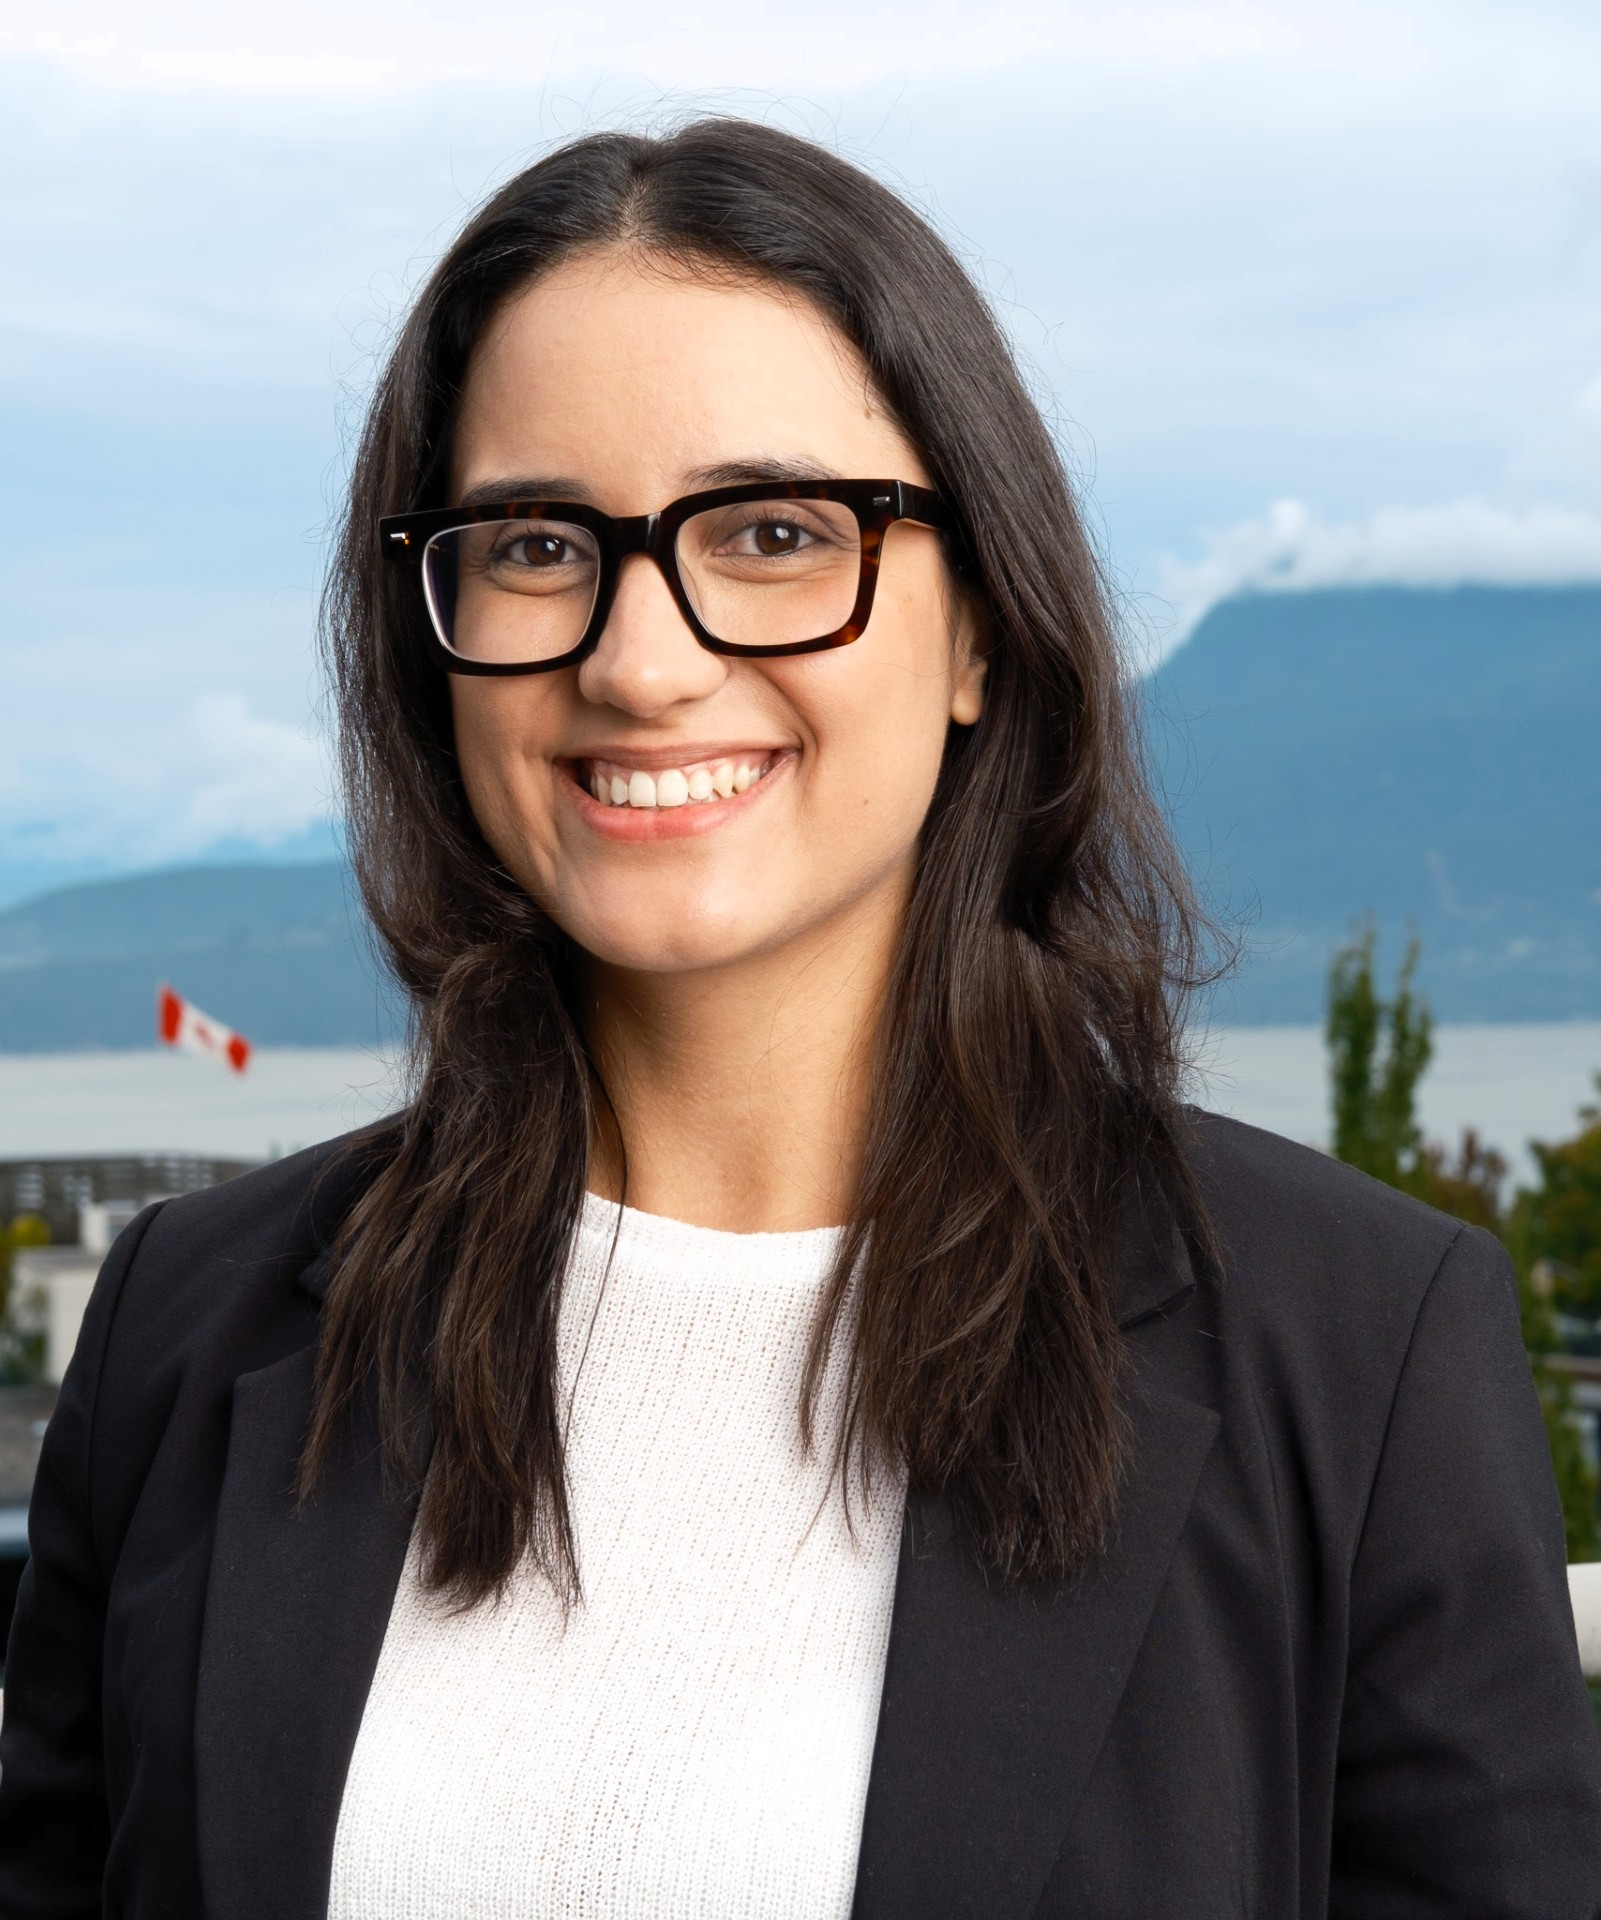
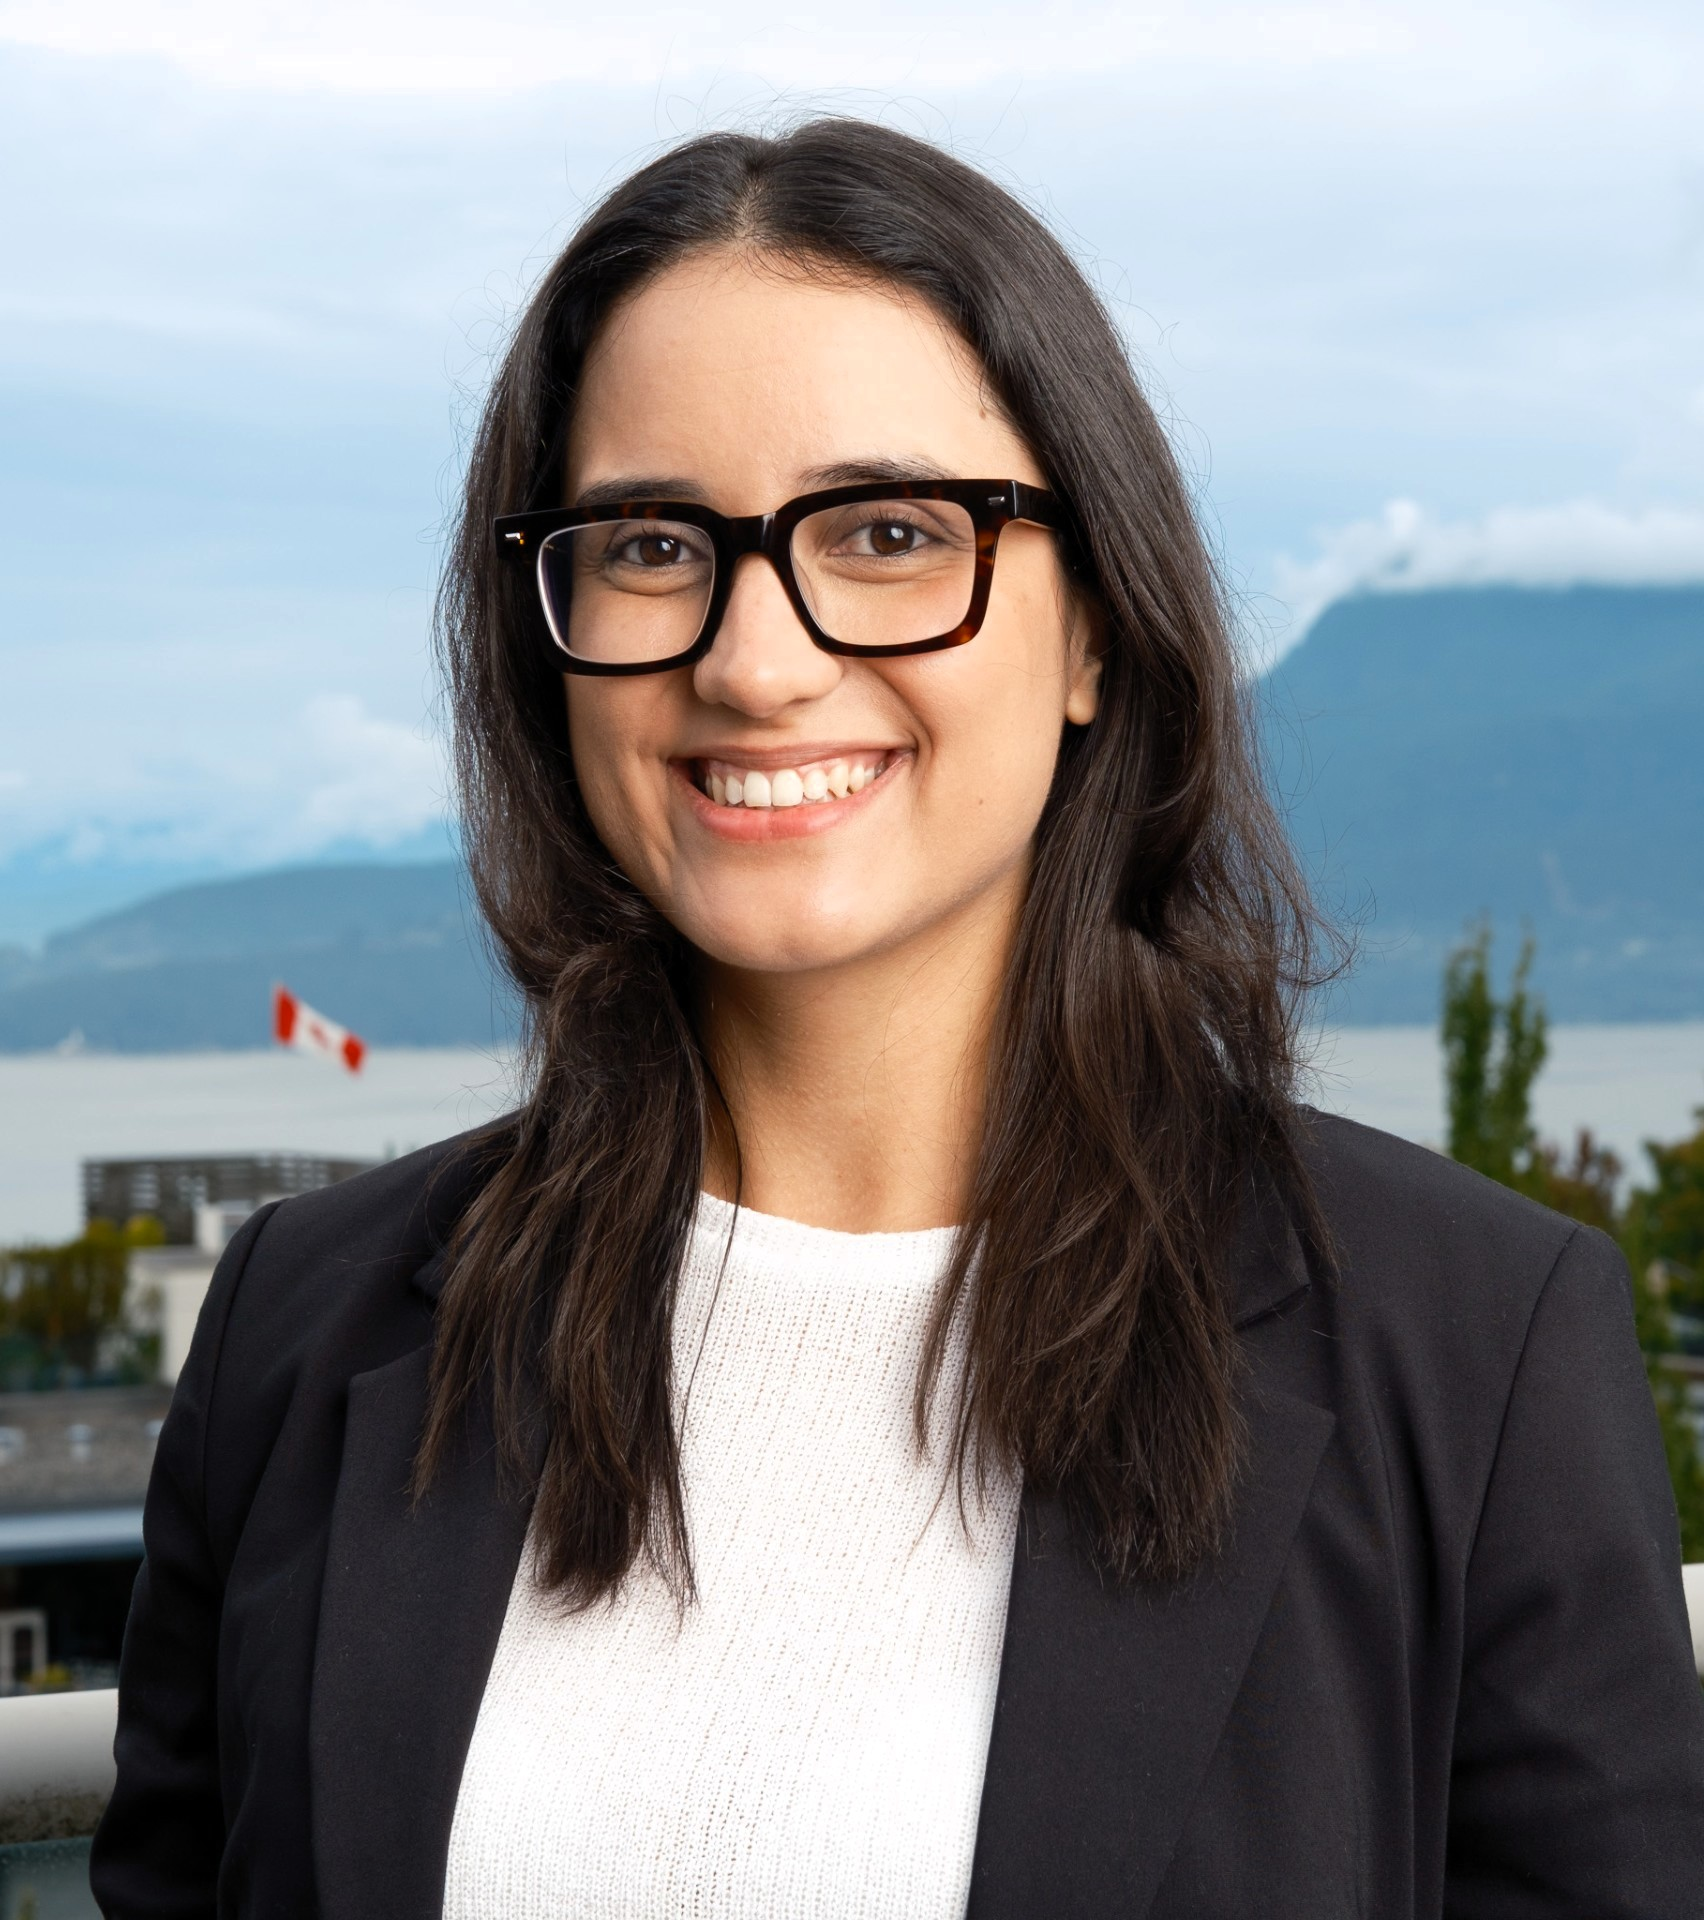
Update bio photo

diff --git a/index.html b/index.html
@@ -88,7 +88,7 @@
   <article>
     <div class="profile">
       <figure>
-        <img src="/assets/images/CarlaSrebot-bio.jpg" alt="Carla Srebot" width="1601" height="1920">
+        <img src="/assets/images/CarlaSrebot-bio.jpg" alt="Carla Srebot" width="1704" height="1920">
       </figure>
       <div class="contact-icons">
         <a href="mailto:csrebot@student.ubc.ca" title="Email" aria-label="Email"><i class="fas fa-envelope"></i></a>
